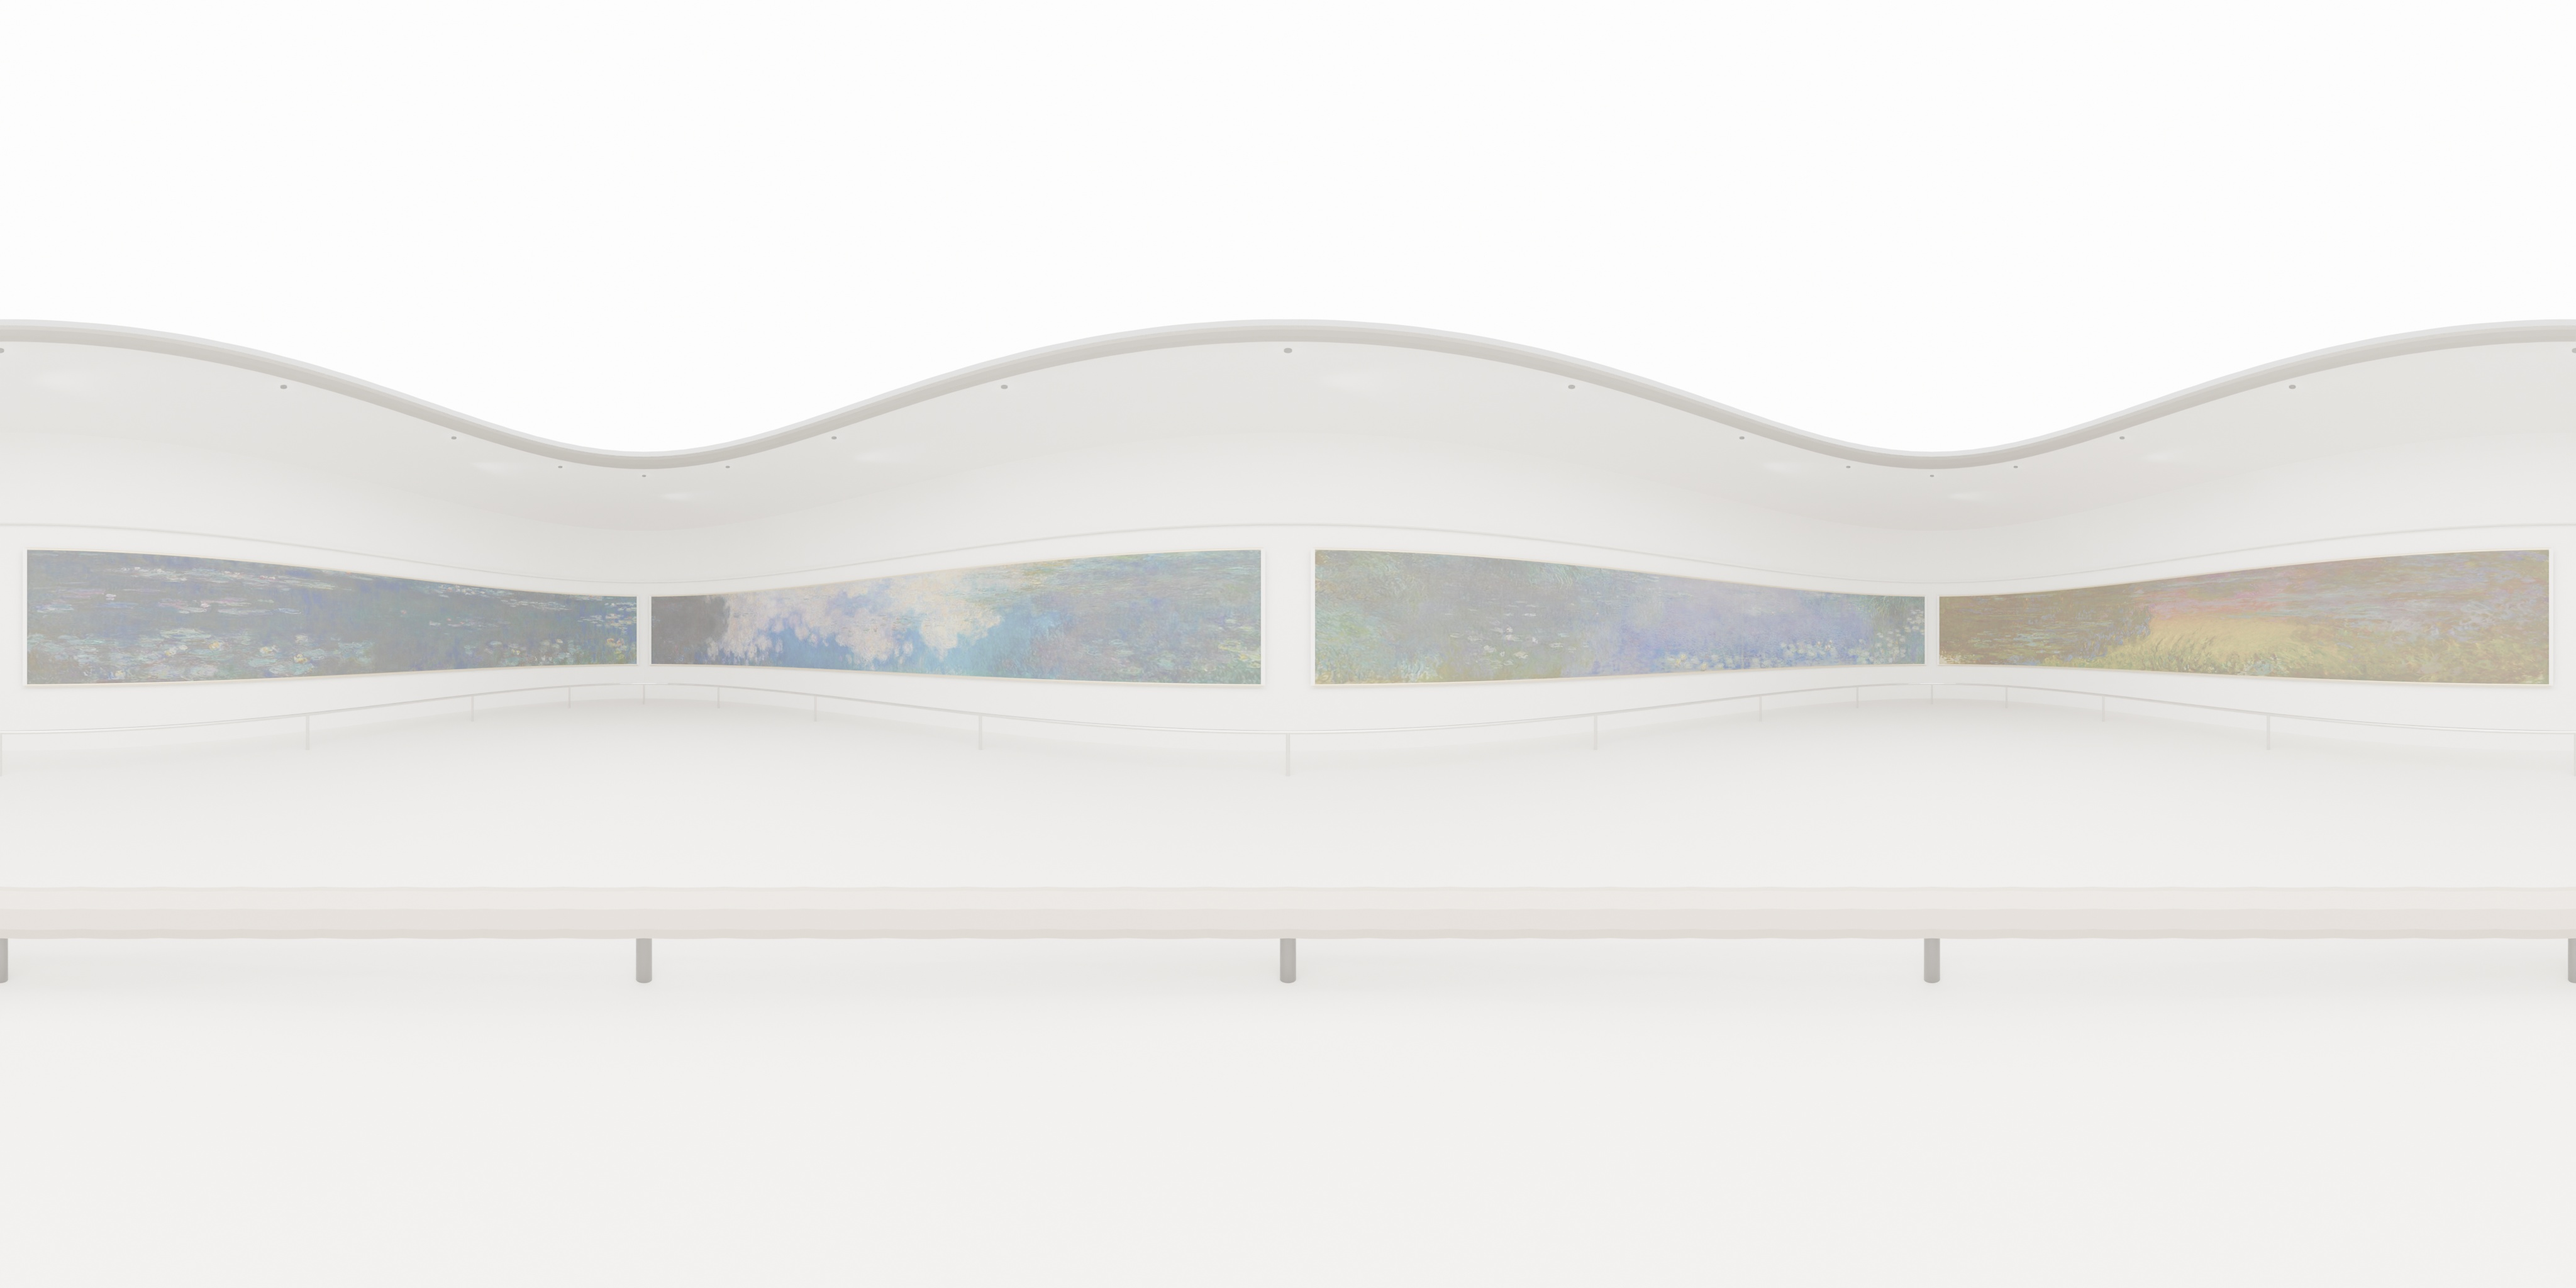
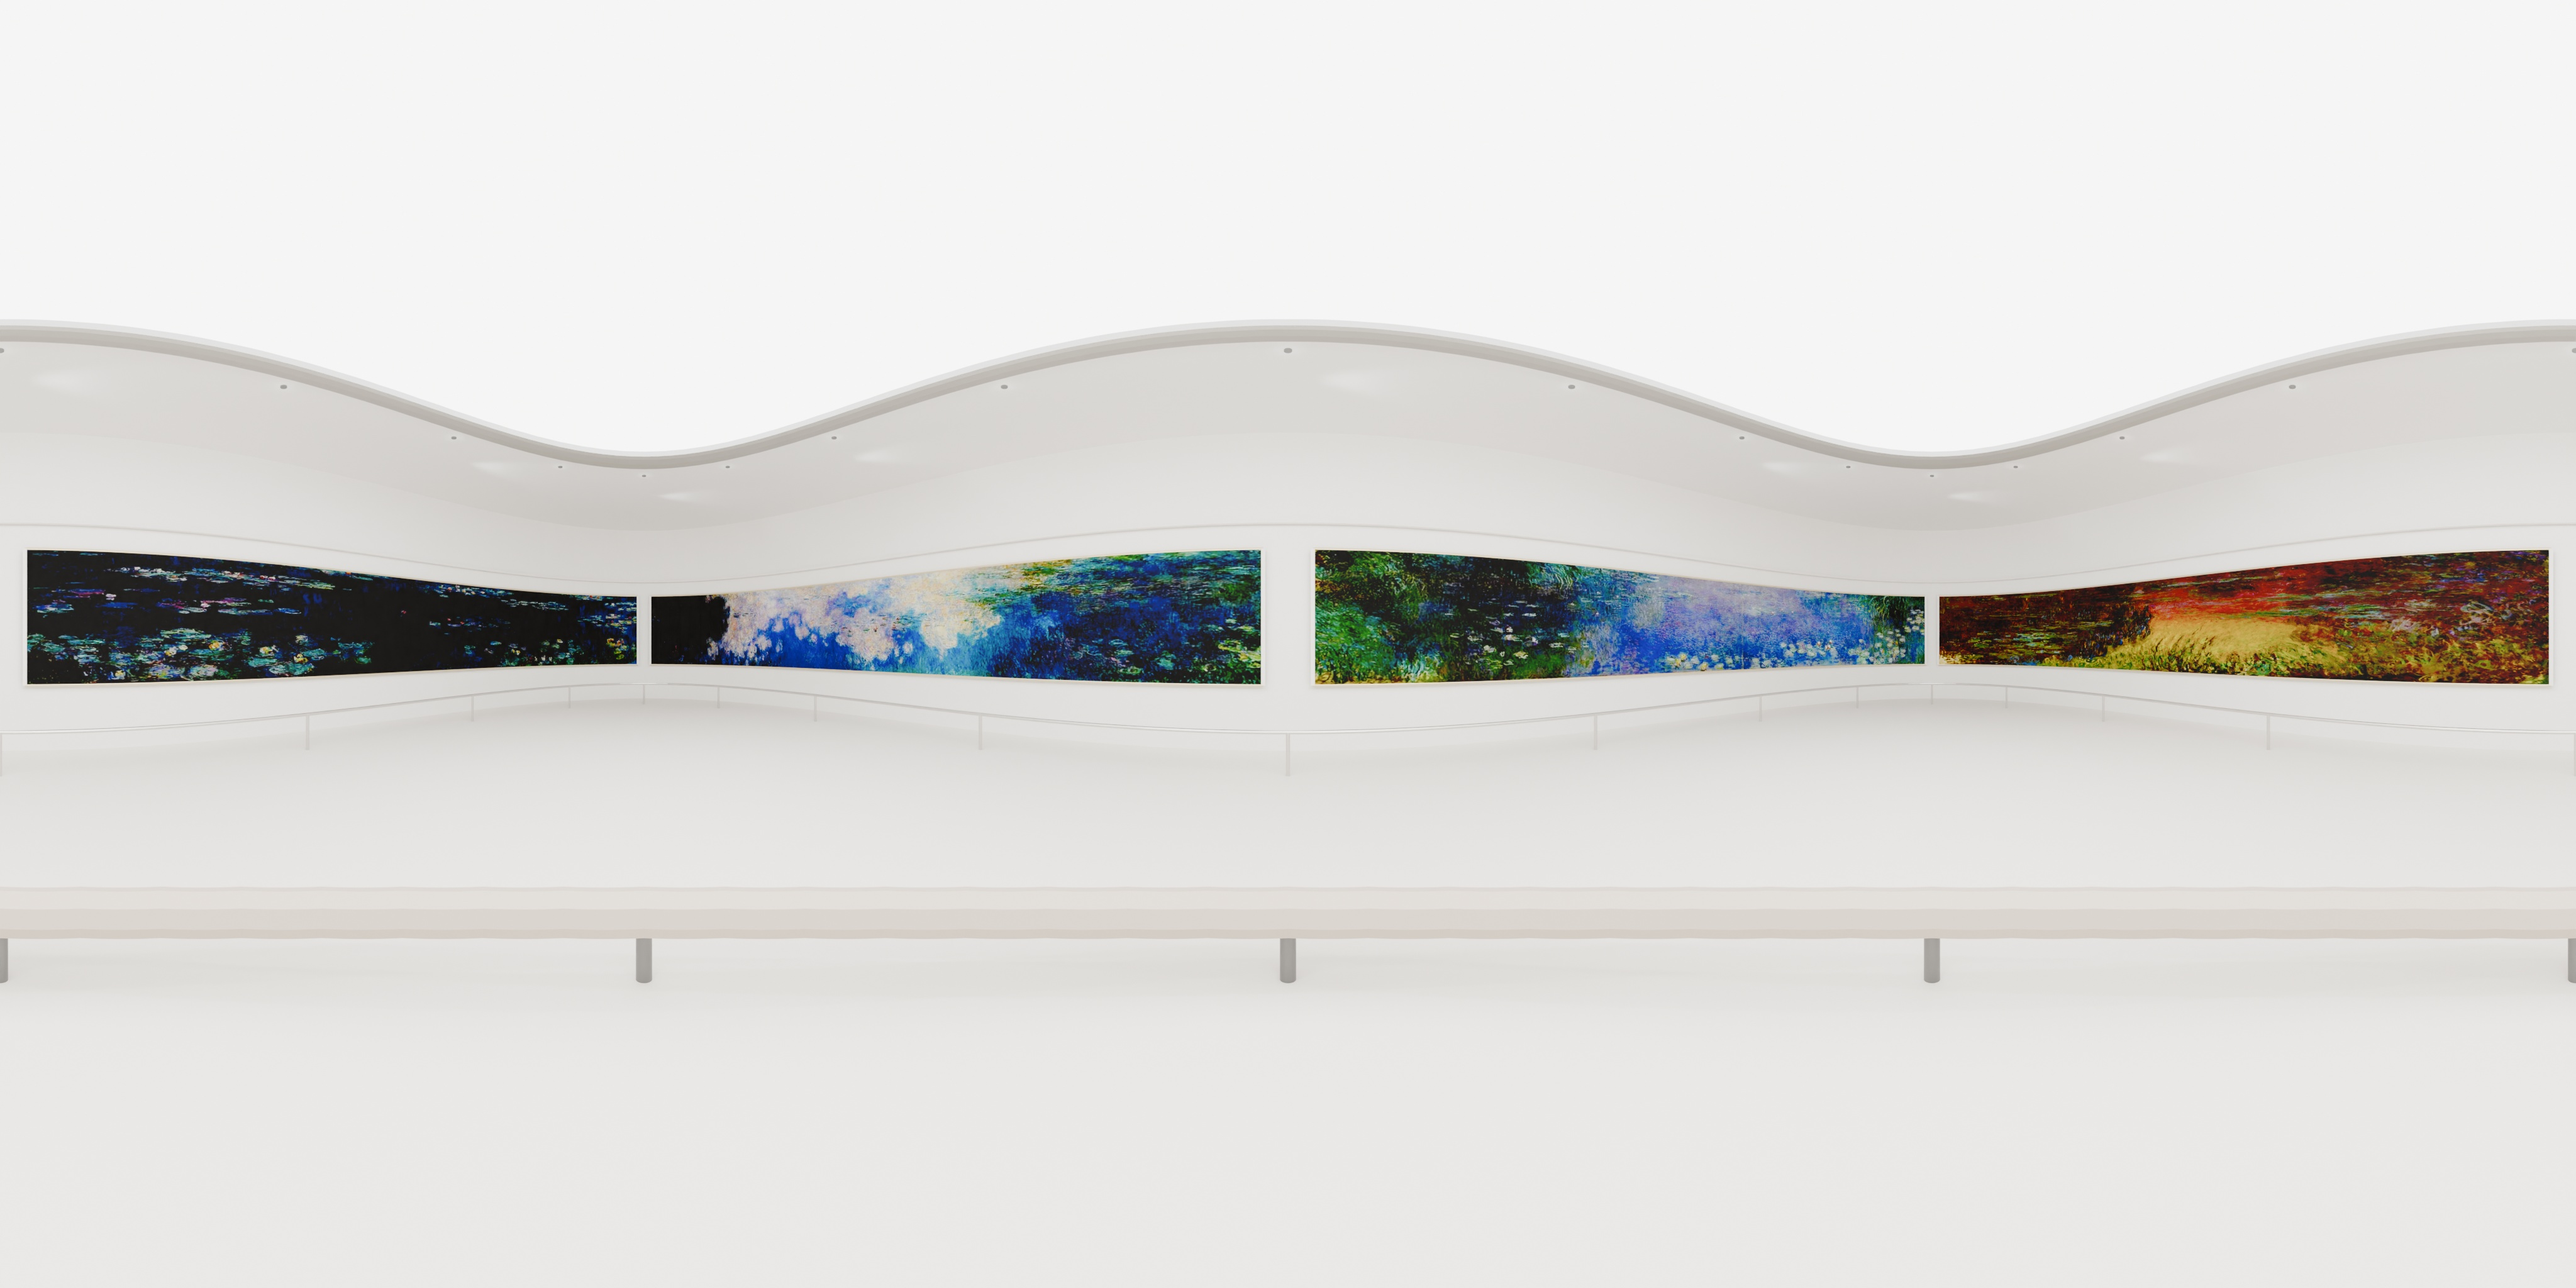
3Dオランジュリー v14: コントラスト重視 — 暗部持ち上げ削除+コントラスト0.3+Emission70%

Changed region(s): [[0.0, 0.4062, 1.0, 0.5312]]

diff --git a/build/web/orangerie.html b/build/web/orangerie.html
@@ -72,7 +72,7 @@
     <button class="active" onclick="switchRoom(1)">第1室</button>
     <button onclick="switchRoom(2)">第2室</button>
   </div>
-  <div id="info">自動鑑賞中 — クリックで絵画を拡大 | v13</div>
+  <div id="info">自動鑑賞中 — クリックで絵画を拡大 | v14</div>
 
   <!-- Painting detail overlay -->
   <div id="painting-overlay" onclick="closeOverlay()">

diff --git a/web/orangerie.html b/web/orangerie.html
@@ -72,7 +72,7 @@
     <button class="active" onclick="switchRoom(1)">第1室</button>
     <button onclick="switchRoom(2)">第2室</button>
   </div>
-  <div id="info">自動鑑賞中 — クリックで絵画を拡大 | v13</div>
+  <div id="info">自動鑑賞中 — クリックで絵画を拡大 | v14</div>
 
   <!-- Painting detail overlay -->
   <div id="painting-overlay" onclick="closeOverlay()">
